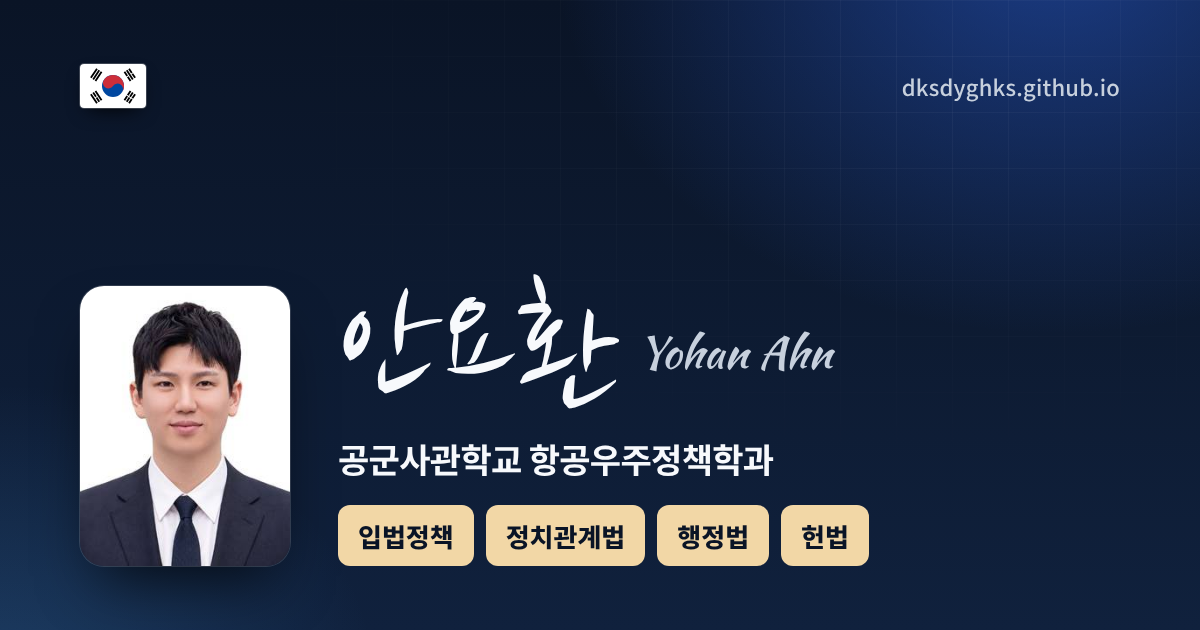
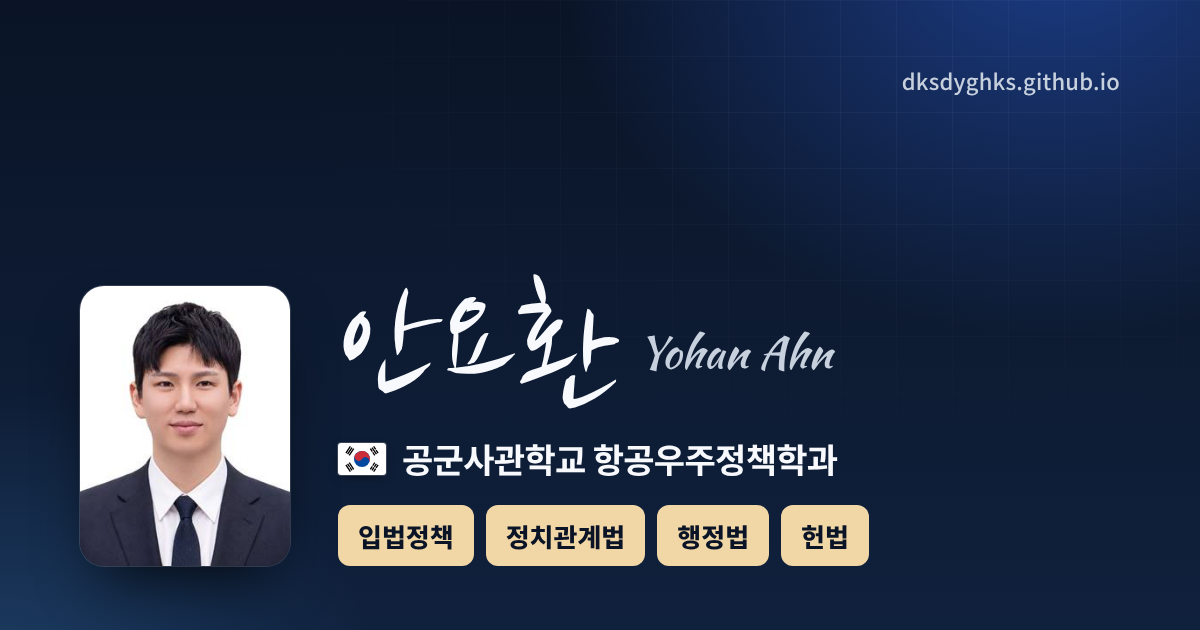
Move the Taegukgi beside the affiliation
The flag now sits next to the institution line instead of alone in the
top-left corner, where it read like a logo or a language selector.
The share card follows the same layout.

Claude-Session: https://claude.ai/code/session_01WpSexnzeoEQub4T9ZUrK4k

Changed region(s): [[0.2775, 0.6937, 0.7092, 0.754], [0.74, 0.1206, 0.9558, 0.181], [0.0617, 0.0905, 0.1233, 0.181]]

diff --git a/index.html b/index.html
@@ -153,8 +153,7 @@ button { font: inherit; }
   opacity: .55;
 }
 .hero-in { position: relative; z-index: 1; max-width: var(--wrap); margin: 0 auto; padding-left: var(--gutter-l); padding-right: var(--gutter-r); padding-block: 24px 64px; }
-.hero-top { display: flex; align-items: center; justify-content: space-between; gap: 16px; margin-bottom: 30px; }
-.flag { display: block; flex: none; border-radius: 3px; box-shadow: 0 0 0 1px #FFFFFF33, 0 6px 16px -6px #000000B0; }
+.hero-top { display: flex; align-items: center; justify-content: flex-end; gap: 16px; margin-bottom: 30px; }
 .hero-grid { display: grid; grid-template-columns: minmax(0, 1.35fr) minmax(0, 1fr); gap: 48px; align-items: end; }
 
 .id { display: flex; align-items: flex-end; gap: 28px; min-width: 0; }
@@ -169,7 +168,10 @@ button { font: inherit; }
   font-size: clamp(4.25rem, 8vw, 6.25rem); line-height: 0.9; padding-right: 8px; color: var(--on-hero);
 }
 #view-en .name { font-family: "Kaushan Script", var(--f-sans); font-size: clamp(3rem, 6vw, 4.5rem); line-height: 1.05; letter-spacing: 0; }
-.role { margin-top: 18px; font-size: 1.25rem; font-weight: 600; letter-spacing: -0.02em; line-height: 1.4; color: var(--on-hero); }
+.role { margin-top: 18px; display: flex; align-items: flex-start; gap: 10px; font-size: 1.25rem; font-weight: 600; letter-spacing: -0.02em; line-height: 1.4; color: var(--on-hero); }
+.role > span { min-width: 0; }
+/* Taegukgi beside the affiliation, centred on the first line of the text */
+.flag { display: block; flex: none; width: 30px; height: 20px; margin-top: calc(0.7em - 10px); border-radius: 2px; box-shadow: 0 0 0 1px #FFFFFF2E, 0 3px 8px -3px #000000A0; }
 .fields-block { margin-top: 18px; display: flex; flex-direction: column; gap: 8px; }
 .fields-label { font-size: 0.75rem; font-weight: 700; letter-spacing: 0.12em; color: var(--on-hero-3); }
 #view-en .fields-label { text-transform: uppercase; }
@@ -351,10 +353,10 @@ button { font: inherit; }
 @media (max-width: 520px) {
   .hero-in { padding-block: 16px 40px; }
   .hero-top { margin-bottom: 20px; }
-  .flag { width: 36px; height: 24px; }
   .id { gap: 18px; }
   .photo { width: 88px; height: 117px; border-radius: 14px; }
-  .role { font-size: 1.0625rem; margin-top: 10px; }
+  .role { font-size: 1.0625rem; margin-top: 10px; gap: 8px; }
+  .flag { width: 27px; height: 18px; margin-top: calc(0.7em - 9px); }
   .fields-block { margin-top: 14px; gap: 6px; }
   .fields { gap: 6px; }
   .fields li { font-size: 0.875rem; padding: 8px 11px; }
@@ -371,7 +373,7 @@ button { font: inherit; }
   :root { --bg: #FFFFFF; --card: #FFFFFF; --ink: #000000; --ink-2: #222222; --muted: #444444; --faint: #555555; --rule: #CCCCCC; --chip: #FFFFFF; }
   body { background: #FFFFFF; font-size: 10.5pt; }
   .skip, .nav, .toc-col, .lang-btn, .lang-fab, .ext, .hero::after { display: none !important; }
-  .hero-top { margin-bottom: 10pt; }
+  .hero-top { display: none; }
   .flag { box-shadow: 0 0 0 0.5pt #999999; }
   .hero { background: none !important; color: #000000; border-bottom: 1px solid #000000; }
   .hero-in { padding: 0 0 14pt; }
@@ -400,10 +402,10 @@ body { margin: 0; }
 <div class="view" id="view-ko" lang="ko" data-title="안요환 | 공군사관학교 항공우주정책학과">
 <a class="skip" href="#main">본문 바로가기</a>
 <header class="hero" id="intro"><div class="hero-in">
-<div class="hero-top"><svg class="flag" viewBox="0 0 150 100" width="42" height="28" role="img" aria-label="대한민국 국기 (태극기)"><rect width="150" height="100" fill="#FFFFFF"/><circle cx="75" cy="50" r="25" fill="#0047A0"/><path d="M54.199,36.132 A25,25 0 0 1 95.801,63.868 A12.5,12.5 0 0 0 75,50 A12.5,12.5 0 0 1 54.199,36.132 Z" fill="#CD2E3A"/><path d="M36.864,39.599 L50.732,18.798 L47.265,16.487 L33.397,37.288 Z M31.664,36.132 L45.532,15.331 L42.065,13.02 L28.197,33.821 Z M26.464,32.666 L40.331,11.864 L36.864,9.553 L22.997,30.354 Z M99.268,18.798 L105.624,28.332 L109.091,26.021 L102.735,16.487 Z M106.78,30.065 L113.136,39.599 L116.603,37.288 L110.247,27.754 Z M104.468,15.331 L118.336,36.132 L121.803,33.821 L107.935,13.02 Z M109.669,11.864 L116.025,21.398 L119.492,19.087 L113.136,9.553 Z M117.18,23.132 L123.536,32.666 L127.003,30.354 L120.647,20.82 Z M113.136,60.401 L106.78,69.935 L110.247,72.246 L116.603,62.712 Z M105.624,71.668 L99.268,81.202 L102.735,83.513 L109.091,73.979 Z M118.336,63.868 L111.98,73.401 L115.447,75.713 L121.803,66.179 Z M110.824,75.135 L104.468,84.669 L107.935,86.98 L114.291,77.446 Z M123.536,67.334 L117.18,76.868 L120.647,79.18 L127.003,69.646 Z M116.025,78.602 L109.669,88.136 L113.136,90.447 L119.492,80.913 Z M50.732,81.202 L36.864,60.401 L33.397,62.712 L47.265,83.513 Z M45.532,84.669 L39.176,75.135 L35.709,77.446 L42.065,86.98 Z M38.02,73.401 L31.664,63.868 L28.197,66.179 L34.553,75.713 Z M40.331,88.136 L26.464,67.334 L22.997,69.646 L36.864,90.447 Z" fill="#000000"/></svg><button type="button" class="lang-btn on-dark" data-lang="en" lang="en" aria-label="View this page in English"><svg class="globe" viewBox="0 0 24 24" width="18" height="18" aria-hidden="true" fill="none" stroke="currentColor" stroke-width="1.8" stroke-linecap="round" stroke-linejoin="round"><circle cx="12" cy="12" r="9"/><path d="M3 12h18"/><path d="M12 3a14 14 0 0 1 0 18"/><path d="M12 3a14 14 0 0 0 0 18"/></svg><span>English</span></button></div>
+<div class="hero-top"><button type="button" class="lang-btn on-dark" data-lang="en" lang="en" aria-label="View this page in English"><svg class="globe" viewBox="0 0 24 24" width="18" height="18" aria-hidden="true" fill="none" stroke="currentColor" stroke-width="1.8" stroke-linecap="round" stroke-linejoin="round"><circle cx="12" cy="12" r="9"/><path d="M3 12h18"/><path d="M12 3a14 14 0 0 1 0 18"/><path d="M12 3a14 14 0 0 0 0 18"/></svg><span>English</span></button></div>
 <div class="hero-grid"><div class="id">
[1 lines of base64/hex data omitted]
-<div class="id-text"><h1 class="name">안요환</h1><p class="role">공군사관학교 항공우주정책학과</p><div class="fields-block"><span class="fields-label" id="fields">연구분야</span><ul class="fields" aria-labelledby="fields"><li>입법정책</li><li>정치관계법</li><li>행정법</li><li>헌법</li></ul></div></div>
+<div class="id-text"><h1 class="name">안요환</h1><p class="role"><svg class="flag" viewBox="0 0 150 100" width="30" height="20" role="img" aria-label="태극기"><rect width="150" height="100" fill="#FFFFFF"/><circle cx="75" cy="50" r="25" fill="#0047A0"/><path d="M54.199,36.132 A25,25 0 0 1 95.801,63.868 A12.5,12.5 0 0 0 75,50 A12.5,12.5 0 0 1 54.199,36.132 Z" fill="#CD2E3A"/><path d="M36.864,39.599 L50.732,18.798 L47.265,16.487 L33.397,37.288 Z M31.664,36.132 L45.532,15.331 L42.065,13.02 L28.197,33.821 Z M26.464,32.666 L40.331,11.864 L36.864,9.553 L22.997,30.354 Z M99.268,18.798 L105.624,28.332 L109.091,26.021 L102.735,16.487 Z M106.78,30.065 L113.136,39.599 L116.603,37.288 L110.247,27.754 Z M104.468,15.331 L118.336,36.132 L121.803,33.821 L107.935,13.02 Z M109.669,11.864 L116.025,21.398 L119.492,19.087 L113.136,9.553 Z M117.18,23.132 L123.536,32.666 L127.003,30.354 L120.647,20.82 Z M113.136,60.401 L106.78,69.935 L110.247,72.246 L116.603,62.712 Z M105.624,71.668 L99.268,81.202 L102.735,83.513 L109.091,73.979 Z M118.336,63.868 L111.98,73.401 L115.447,75.713 L121.803,66.179 Z M110.824,75.135 L104.468,84.669 L107.935,86.98 L114.291,77.446 Z M123.536,67.334 L117.18,76.868 L120.647,79.18 L127.003,69.646 Z M116.025,78.602 L109.669,88.136 L113.136,90.447 L119.492,80.913 Z M50.732,81.202 L36.864,60.401 L33.397,62.712 L47.265,83.513 Z M45.532,84.669 L39.176,75.135 L35.709,77.446 L42.065,86.98 Z M38.02,73.401 L31.664,63.868 L28.197,66.179 L34.553,75.713 Z M40.331,88.136 L26.464,67.334 L22.997,69.646 L36.864,90.447 Z" fill="#000000"/></svg><span>공군사관학교 항공우주정책학과</span></p><div class="fields-block"><span class="fields-label" id="fields">연구분야</span><ul class="fields" aria-labelledby="fields"><li>입법정책</li><li>정치관계법</li><li>행정법</li><li>헌법</li></ul></div></div>
 </div>
 <div class="stmt"><p class="s1">율리우스 폰 키르히만은 입법권자가 세 마디만 고치면 법학서적은 <br class="br-d">모두 휴지조각이 된다며 법학의 학문적 가치를 비판하였다.</p><p class="s2">그러나 법학이 학문으로서 가치가 있기에 <br class="br-t"><strong>나의 연구는 입법권자로 하여금 문제의 세 마디를 바로잡도록 할 것이다.</strong></p></div>
 </div></div></header>
@@ -424,10 +426,10 @@ body { margin: 0; }
 <div class="view" id="view-en" lang="en" data-title="Yohan Ahn | Republic of Korea Air Force Academy" hidden>
 <a class="skip" href="#en-main">Skip to content</a>
 <header class="hero" id="en-intro"><div class="hero-in">
-<div class="hero-top"><svg class="flag" viewBox="0 0 150 100" width="42" height="28" role="img" aria-label="National flag of the Republic of Korea (Taegukgi)"><rect width="150" height="100" fill="#FFFFFF"/><circle cx="75" cy="50" r="25" fill="#0047A0"/><path d="M54.199,36.132 A25,25 0 0 1 95.801,63.868 A12.5,12.5 0 0 0 75,50 A12.5,12.5 0 0 1 54.199,36.132 Z" fill="#CD2E3A"/><path d="M36.864,39.599 L50.732,18.798 L47.265,16.487 L33.397,37.288 Z M31.664,36.132 L45.532,15.331 L42.065,13.02 L28.197,33.821 Z M26.464,32.666 L40.331,11.864 L36.864,9.553 L22.997,30.354 Z M99.268,18.798 L105.624,28.332 L109.091,26.021 L102.735,16.487 Z M106.78,30.065 L113.136,39.599 L116.603,37.288 L110.247,27.754 Z M104.468,15.331 L118.336,36.132 L121.803,33.821 L107.935,13.02 Z M109.669,11.864 L116.025,21.398 L119.492,19.087 L113.136,9.553 Z M117.18,23.132 L123.536,32.666 L127.003,30.354 L120.647,20.82 Z M113.136,60.401 L106.78,69.935 L110.247,72.246 L116.603,62.712 Z M105.624,71.668 L99.268,81.202 L102.735,83.513 L109.091,73.979 Z M118.336,63.868 L111.98,73.401 L115.447,75.713 L121.803,66.179 Z M110.824,75.135 L104.468,84.669 L107.935,86.98 L114.291,77.446 Z M123.536,67.334 L117.18,76.868 L120.647,79.18 L127.003,69.646 Z M116.025,78.602 L109.669,88.136 L113.136,90.447 L119.492,80.913 Z M50.732,81.202 L36.864,60.401 L33.397,62.712 L47.265,83.513 Z M45.532,84.669 L39.176,75.135 L35.709,77.446 L42.065,86.98 Z M38.02,73.401 L31.664,63.868 L28.197,66.179 L34.553,75.713 Z M40.331,88.136 L26.464,67.334 L22.997,69.646 L36.864,90.447 Z" fill="#000000"/></svg><button type="button" class="lang-btn on-dark" data-lang="ko" lang="ko" aria-label="한국어로 보기"><svg class="globe" viewBox="0 0 24 24" width="18" height="18" aria-hidden="true" fill="none" stroke="currentColor" stroke-width="1.8" stroke-linecap="round" stroke-linejoin="round"><circle cx="12" cy="12" r="9"/><path d="M3 12h18"/><path d="M12 3a14 14 0 0 1 0 18"/><path d="M12 3a14 14 0 0 0 0 18"/></svg><span>한국어</span></button></div>
+<div class="hero-top"><button type="button" class="lang-btn on-dark" data-lang="ko" lang="ko" aria-label="한국어로 보기"><svg class="globe" viewBox="0 0 24 24" width="18" height="18" aria-hidden="true" fill="none" stroke="currentColor" stroke-width="1.8" stroke-linecap="round" stroke-linejoin="round"><circle cx="12" cy="12" r="9"/><path d="M3 12h18"/><path d="M12 3a14 14 0 0 1 0 18"/><path d="M12 3a14 14 0 0 0 0 18"/></svg><span>한국어</span></button></div>
 <div class="hero-grid"><div class="id">
[1 lines of base64/hex data omitted]
-<div class="id-text"><h1 class="name">Yohan Ahn</h1><p class="role">Republic of Korea Air Force Academy</p><div class="fields-block"><span class="fields-label" id="en-fields">Research Fields</span><ul class="fields" aria-labelledby="en-fields"><li>Election &amp; Political Law</li><li>Legislative Policy</li><li>Public Law</li></ul></div></div>
+<div class="id-text"><h1 class="name">Yohan Ahn</h1><p class="role"><svg class="flag" viewBox="0 0 150 100" width="30" height="20" role="img" aria-label="Flag of the Republic of Korea"><rect width="150" height="100" fill="#FFFFFF"/><circle cx="75" cy="50" r="25" fill="#0047A0"/><path d="M54.199,36.132 A25,25 0 0 1 95.801,63.868 A12.5,12.5 0 0 0 75,50 A12.5,12.5 0 0 1 54.199,36.132 Z" fill="#CD2E3A"/><path d="M36.864,39.599 L50.732,18.798 L47.265,16.487 L33.397,37.288 Z M31.664,36.132 L45.532,15.331 L42.065,13.02 L28.197,33.821 Z M26.464,32.666 L40.331,11.864 L36.864,9.553 L22.997,30.354 Z M99.268,18.798 L105.624,28.332 L109.091,26.021 L102.735,16.487 Z M106.78,30.065 L113.136,39.599 L116.603,37.288 L110.247,27.754 Z M104.468,15.331 L118.336,36.132 L121.803,33.821 L107.935,13.02 Z M109.669,11.864 L116.025,21.398 L119.492,19.087 L113.136,9.553 Z M117.18,23.132 L123.536,32.666 L127.003,30.354 L120.647,20.82 Z M113.136,60.401 L106.78,69.935 L110.247,72.246 L116.603,62.712 Z M105.624,71.668 L99.268,81.202 L102.735,83.513 L109.091,73.979 Z M118.336,63.868 L111.98,73.401 L115.447,75.713 L121.803,66.179 Z M110.824,75.135 L104.468,84.669 L107.935,86.98 L114.291,77.446 Z M123.536,67.334 L117.18,76.868 L120.647,79.18 L127.003,69.646 Z M116.025,78.602 L109.669,88.136 L113.136,90.447 L119.492,80.913 Z M50.732,81.202 L36.864,60.401 L33.397,62.712 L47.265,83.513 Z M45.532,84.669 L39.176,75.135 L35.709,77.446 L42.065,86.98 Z M38.02,73.401 L31.664,63.868 L28.197,66.179 L34.553,75.713 Z M40.331,88.136 L26.464,67.334 L22.997,69.646 L36.864,90.447 Z" fill="#000000"/></svg><span>Republic of Korea Air Force Academy</span></p><div class="fields-block"><span class="fields-label" id="en-fields">Research Fields</span><ul class="fields" aria-labelledby="en-fields"><li>Election &amp; Political Law</li><li>Legislative Policy</li><li>Public Law</li></ul></div></div>
 </div>
 <div class="stmt"><p class="s1">Julius von Kirchmann questioned the value of legal scholarship as a science, famously declaring that “three corrective words by the legislator turn whole legal libraries into waste paper.”</p><p class="s2">Yet legal scholarship does have value as a science; therefore, <br class="br-t"><strong>my research will lead the legislature to correct the three words in question.</strong></p></div>
 </div></div></header>
